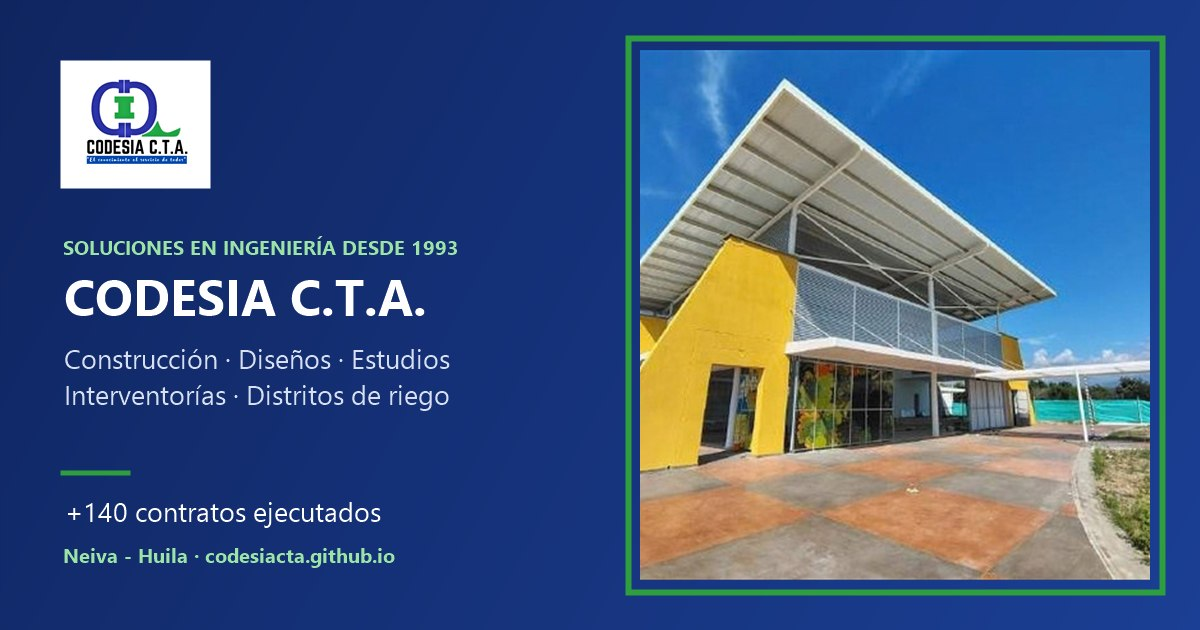
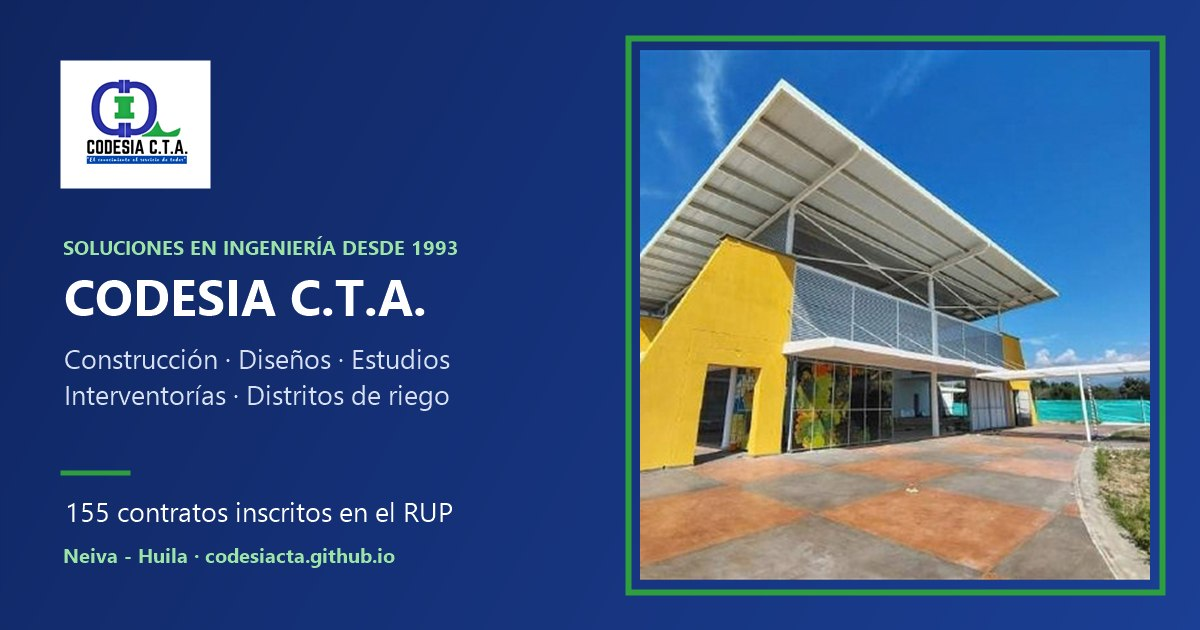
Datos del RUP: 155 contratos, 51.612 SMMLV, indicadores financieros y proponente No. 813
Tomados del certificado RUP de la Camara de Comercio del Huila (06/08/2026). Reemplaza la cifra '+140 contratos' del portafolio.

diff --git a/index.html b/index.html
@@ -12,7 +12,7 @@
   <meta property="og:locale" content="es_CO">
   <meta property="og:site_name" content="CODESIA C.T.A.">
   <meta property="og:title" content="CODESIA C.T.A. | Soluciones en ingeniería desde 1993">
-  <meta property="og:description" content="Construcción, diseños, estudios, interventorías y distritos de riego. Más de 140 contratos ejecutados con entidades públicas y privadas. Neiva - Huila.">
+  <meta property="og:description" content="Construcción, diseños, estudios, interventorías y distritos de riego. 155 contratos inscritos en el RUP con entidades públicas y privadas. Neiva - Huila.">
   <meta property="og:url" content="https://codesiacta.github.io/">
   <meta property="og:image" content="https://codesiacta.github.io/img/compartir.jpg">
   <meta property="og:image:width" content="1200">
@@ -21,7 +21,7 @@
   <link rel="preconnect" href="https://fonts.googleapis.com">
   <link rel="preconnect" href="https://fonts.gstatic.com" crossorigin>
   <link href="https://fonts.googleapis.com/css2?family=Montserrat:wght@600;700;800&family=Open+Sans:wght@400;600&display=swap" rel="stylesheet">
-  <link rel="stylesheet" href="css/styles.css?v=4">
+  <link rel="stylesheet" href="css/styles.css?v=5">
 </head>
 <body>
 
@@ -65,7 +65,7 @@
           </div>
           <ul class="hero__stats">
             <li><strong>+30</strong> años de experiencia</li>
-            <li><strong>+140</strong> contratos ejecutados</li>
+            <li><strong>155</strong> contratos en el RUP</li>
           </ul>
         </div>
         <div class="hero__media">
@@ -263,7 +263,7 @@
         <div>
           <p class="eyebrow">Sobre nuestra empresa de ingeniería civil</p>
           <h2>Desarrollo para nuestra comunidad</h2>
-          <p>Desde 1993, CODESIA C.T.A. ha sido un pilar en la comunidad y ha estado involucrada en pro del liderazgo y el desarrollo. Estamos orgullosos de abrir brecha rumbo a un futuro más eficiente gracias a nuestras ideas innovadoras, tecnología de punta y transparencia. Hemos ejecutado más de 140 contratos destinados a brindar soluciones de ingeniería a entidades públicas, privadas y a la comunidad.</p>
+          <p>Desde 1993, CODESIA C.T.A. ha sido un pilar en la comunidad y ha estado involucrada en pro del liderazgo y el desarrollo. Estamos orgullosos de abrir brecha rumbo a un futuro más eficiente gracias a nuestras ideas innovadoras, tecnología de punta y transparencia. Tenemos 155 contratos inscritos en el Registro Único de Proponentes, destinados a brindar soluciones de ingeniería a entidades públicas, privadas y a la comunidad.</p>
         </div>
         <div>
           <p class="eyebrow">Pasado y presente</p>
@@ -307,7 +307,16 @@
     <section class="section section--alt" id="experiencia">
       <div class="container">
         <h2 class="section__title center">Experiencia certificada</h2>
-        <p class="center narrow">Más de 140 contratos ejecutados en más de 30 años. Esta es una selección por línea de servicio.</p>
+        <p class="center narrow">Más de 30 años de trabajo respaldados por el Registro Único de Proponentes. Abajo, una selección de contratos por línea de servicio.</p>
+
+        <!-- Datos tomados del certificado RUP expedido por la Cámara de Comercio del Huila el 06/08/2026 -->
+        <div class="rup">
+          <div class="rup__stat"><strong>155</strong><span>contratos inscritos en el RUP</span></div>
+          <div class="rup__stat"><strong>51.612</strong><span>SMMLV de experiencia acreditada</span></div>
+          <div class="rup__stat"><strong>6,28</strong><span>índice de liquidez</span></div>
+          <div class="rup__stat"><strong>0,15</strong><span>índice de endeudamiento</span></div>
+          <p class="rup__note">Proponente No. 813 · Cámara de Comercio del Huila · Renovado el 09/04/2026 · Indicadores financieros con corte al 31/12/2025.</p>
+        </div>
 
         <div class="xp-tabs" role="tablist" aria-label="Filtrar experiencia por línea de servicio">
           <button class="xp-tab is-active" role="tab" aria-selected="true" data-filter="todos">Todos</button>
@@ -501,7 +510,7 @@
           </article>
         </div>
 
-        <p class="center xp-more"><a class="btn" href="docs/portafolio-codesia-2026.pdf" target="_blank" rel="noopener">Ver los +140 contratos en el portafolio</a></p>
+        <p class="center xp-more"><a class="btn" href="docs/portafolio-codesia-2026.pdf" target="_blank" rel="noopener">Ver el portafolio completo</a></p>
       </div>
     </section>
 
@@ -619,6 +628,8 @@
           <li><strong>Naturaleza:</strong> Cooperativa de Trabajo Asociado, sin ánimo de lucro</li>
           <li><strong>Régimen:</strong> Tributario Especial — <a href="#rte">documentos 2025</a></li>
           <li><strong>Representante legal:</strong> Anyela Adriana Cardoso Orozco</li>
+          <li><strong>RUP:</strong> Proponente No. 813 — Cámara de Comercio del Huila (renovado 09/04/2026)</li>
+          <li><strong>Registro ESAL:</strong> S0709577 — Entidad de economía solidaria</li>
         </ul>
       </div>
       <div>

diff --git a/css/styles.css b/css/styles.css
@@ -211,6 +211,17 @@ h1, h2, h3 { font-family: "Montserrat", sans-serif; line-height: 1.2; color: var
 .doc--disabled { opacity: .45; pointer-events: none; }
 
 /* ===== Experiencia ===== */
+.rup {
+  display: grid; grid-template-columns: repeat(4, 1fr); gap: 1px;
+  margin-top: 32px; border-radius: var(--radio); overflow: hidden;
+  background: rgba(255,255,255,.12);
+  box-shadow: 0 16px 36px rgba(15,37,96,.18);
+}
+.rup__stat { background: linear-gradient(160deg, var(--azul-oscuro), var(--azul)); color: #dfe6f5; padding: 22px 18px; text-align: center; }
+.rup__stat strong { display: block; font-family: "Montserrat", sans-serif; font-size: 2rem; color: #9be3a6; line-height: 1.1; }
+.rup__stat span { font-size: .85rem; }
+.rup__note { grid-column: 1 / -1; background: var(--azul-oscuro); color: #b9c3dc; font-size: .8rem; text-align: center; padding: 10px 16px; }
+@media (max-width: 700px) { .rup { grid-template-columns: repeat(2, 1fr); } .rup__stat strong { font-size: 1.6rem; } }
 .xp-tabs { display: flex; flex-wrap: wrap; justify-content: center; gap: 8px; margin-top: 32px; }
 .xp-tab {
   font: inherit; font-size: .88rem; font-weight: 600; cursor: pointer;
